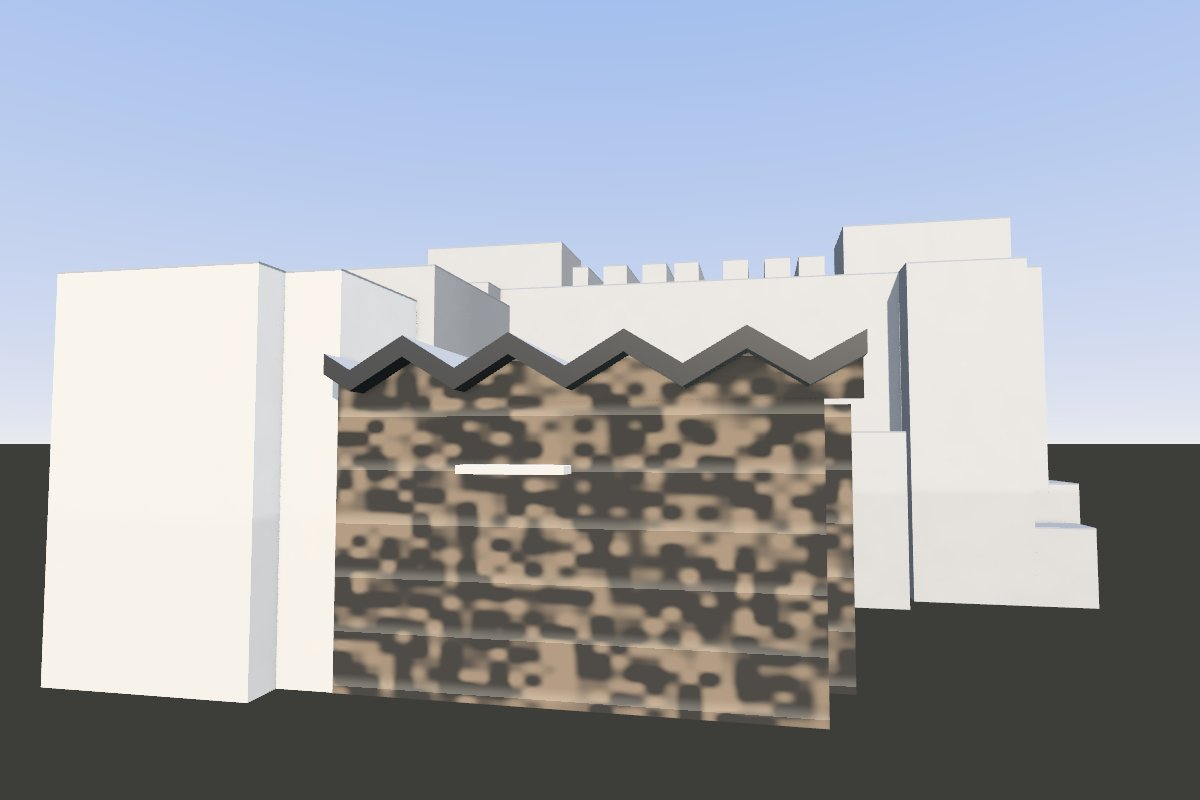
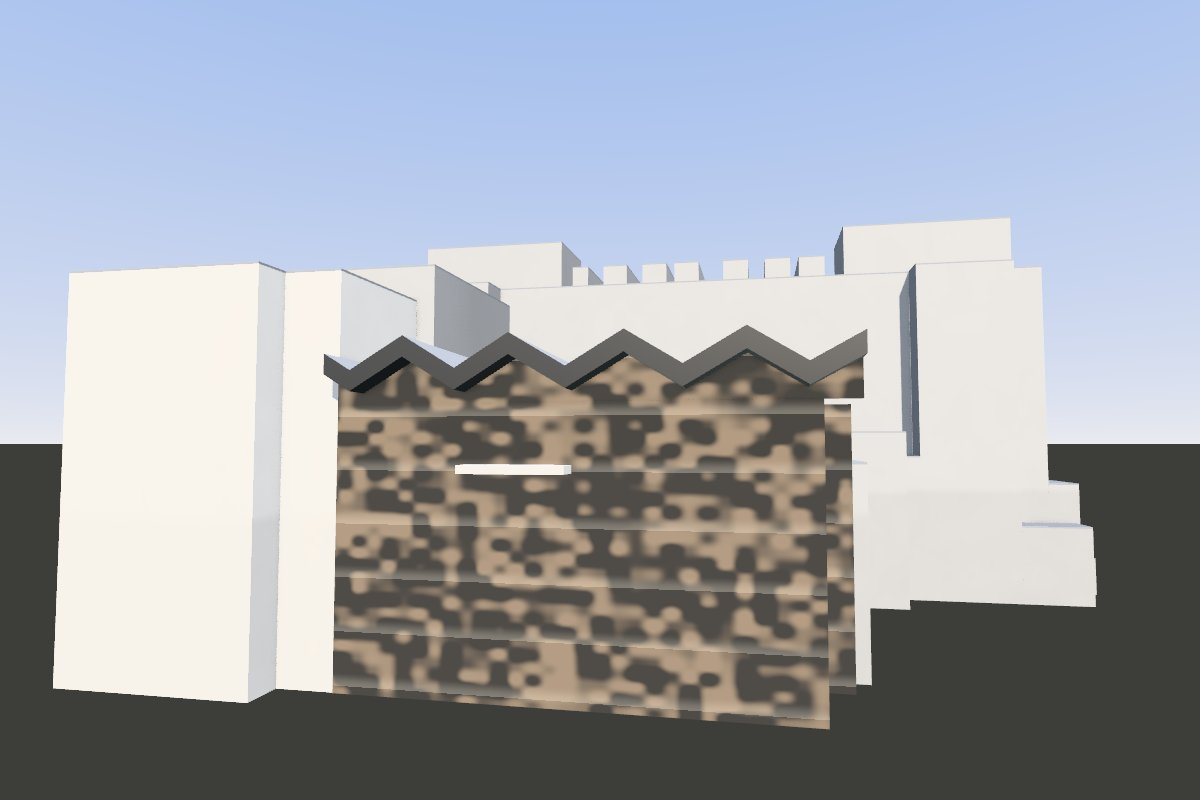
Te Putahi Tangata (201), the review's round 3
- The long block's north-west extension ran 1.1 m past the LiDAR's roof, to u -28, leaving a slot
  1.2 m wide down to the ground between it and the link: it now ends at u -29.1, where its roof
  ends, and the link's strip at 10.9 runs on to it (the LiDAR's 10.6 to 11.8 there).
- The strip at 10.9 along the hall's south-west side was drawn only beside the link: it now runs
  the side's whole length, to w 31, as the LiDAR's.
- The part at 3.6 by the block's west end to w -0.5, where its returns end.
- The low roof at -0.5 and the part at 3.6 stand wholly under the map's ground on the site (by 4.0
  to 5.4 m and 1.2 to 1.9 m): the landmark's README and Known limitations say so.
- Two comments rewrapped to their files' widths; the four pictures retaken.

744 triangles, 5 draw calls. Top view: footprint IoU 0.911, 80% of 16,204 cells within 0.5 m;
block 201 85.3% under the model by the top view's count (95.0% of its outline counted from the
ground under each cell). Luma and the IoU in the box as before. tsc passes; the unit tests 445
pass; e2e/landmark.spec.ts on the GPU 37 pass.

Claude-Session: https://claude.ai/code/session_01WyPcwFTXkmVC7XB6LWPSiH

diff --git a/landmarks/te-putahi-tangata/parts/common.js b/landmarks/te-putahi-tangata/parts/common.js
@@ -49,11 +49,10 @@ export const CANOPY = { plan: [[-0.27, 40.1], [6.76, 40.1], [6.76, 42.2], [-0.27
 
 /** The north-east block: its roof at 23.9 to 24.6 (the parapet's cells 25), its front at w 43.0 from u 20.5 to 35.5
  * (the LiDAR's edge, 1.2 m short of the campus map's ring), at 40 south-west of that and 39 north-east of it, its east
- * side at u 36.75; the raised
- * part on it (27.0 to 27.5) from u 14.6, over the hall's end, to 27, its south-west wall standing from the hall's roof
- * (the LiDAR's returns at u 14.5 to 14.75 from 18.5 to 26.5), so it goes down to FOOT; the faces toward the street and
- * the hall pale metal, as the photograph shows the hall's side, the others plain. `pale`: the edges by index that are
- * clad. */
+ * side at u 36.75; the raised part on it (27.0 to 27.5) from u 14.6, over the hall's end, to 27, its south-west wall
+ * standing from the hall's roof (the LiDAR's returns at u 14.5 to 14.75 from 18.5 to 26.5), so it goes down to FOOT;
+ * the faces toward the street and the hall pale metal, as the photograph shows the hall's side, the others plain.
+ * `pale`: the edges by index that are clad. */
 export const NE = {
   plan: [[16.2, 0.0], [36.75, 0.0], [36.75, 39.0], [35.5, 39.0], [35.5, 43.0], [20.5, 43.0], [20.5, 40.0],
     [16.2, 40.0]],
@@ -62,16 +61,17 @@ export const NE = {
   raised: { plan: [[14.6, 8.0], [27.0, 8.0], [27.0, 28.0], [14.6, 28.0]], top: H(27.35) },
 };
 
-/** The long block behind: its roofs at 31.2 to 32.2 (u -43.0 to 34, w -26 to -4.5, and on to w -0.5 at u -39 to -28
+/** The long block behind: its roofs at 31.2 to 32.2 (u -43.0 to 34, w -26 to -4.5, and on to w -0.5 at u -39 to -29.1
  * and to w 0 at u 20 to 30); strips 2 to 3 m wide at 34.5 to 35 across its middle and raised parts at 37.2 to 38 at
  * each end of it, toward the hall; the stair's core at 33.2 to 33.7 on its south-east side (u -15 to -2.5, to w -33);
  * the podium at 7.6 to 8.0 (its parapets to 9) along its south-east side and its south-west end, and 12 beside the core
  * (to u 7); past the podium's south-west end a low roof at -0.4 to -0.7, about 2.6 m over the ground; north of the
- * block's west end a part at 3 to 4; and the link between the long block and the hall's south-west end, at 13.5 to
- * u -19.5 and 10.3 to 11.4 along the long block and along the hall. */
+ * block's west end a part at 3 to 4 (to w -0.5); and the link between the long block and the hall's south-west end, at
+ * 13.5 to u -19.5, and a strip at 10.3 to 11.8 along the long block (from u -29.1, where the north-west extension's
+ * roof ends) and along the hall's whole south-west side (to w 31). */
 export const SOUTH = {
   main: { top: H(31.95), plan: [[-43.0, -26.0], [34.0, -26.0], [34.0, -4.5], [30.0, -4.5], [30.0, 0.0], [20.0, 0.0],
-    [20.0, -4.5], [-28.0, -4.5], [-28.0, -0.5], [-39.0, -0.5], [-39.0, -4.5], [-43.0, -4.5]] },
+    [20.0, -4.5], [-29.1, -4.5], [-29.1, -0.5], [-39.0, -0.5], [-39.0, -4.5], [-43.0, -4.5]] },
   raised: [
     // their north sides 0.1 m back from the block's, so that the block's roof edge and their walls do not lie in one
     // plane
@@ -89,9 +89,10 @@ export const SOUTH = {
     { top: H(12.0), plan: [[-2.5, -35.0], [7.0, -35.0], [7.0, -26.0], [-2.5, -26.0]] },
     { top: H(7.9), plan: [[7.0, -33.0], [37.0, -33.0], [37.0, -26.0], [7.0, -26.0]] },
     { top: H(-0.5), plan: [[-48.5, -21.0], [-46.0, -21.0], [-46.0, -7.5], [-48.5, -7.5]] },
-    { top: H(3.6), plan: [[-45.7, -4.5], [-39.0, -4.5], [-39.0, 0.3], [-45.7, 0.3]] },
+    { top: H(3.6), plan: [[-45.7, -4.5], [-39.0, -4.5], [-39.0, -0.5], [-45.7, -0.5]] },
     // the link: 10.9 along the long block and along the hall, 13.5 between
-    { top: H(10.9), plan: [[-26.8, -4.5], [-18.2, -4.5], [-18.2, 4.7], [-19.5, 4.7], [-19.5, -2.0], [-26.8, -2.0]] },
+    { top: H(10.9), plan: [[-29.1, -4.5], [-18.2, -4.5], [-18.2, 31.0], [-19.5, 31.0], [-19.5, -2.0], [-26.8, -2.0],
+      [-26.8, -0.5], [-29.1, -0.5]] },
     { top: H(13.5), plan: [[-26.8, -2.0], [-19.5, -2.0], [-19.5, 4.7], [-26.8, 4.7]] },
   ],
 };

diff --git a/src/scene/landmarks.ts b/src/scene/landmarks.ts
@@ -137,8 +137,8 @@ export interface LandmarkHost {
  * (250) and 0.57 m from the Humanities Building (206). The nearest two landmarks further apart than this,
  * buildings 302 and 303S of the Science Centre, stand 5.6 m apart (the next, the Humanities Building and
  * Okareta (206, 215), 7.4 m, and the Humanities Building and the Sir Owen G Glenn Building (206, 260),
- * 7.9 m): each of those can stand on the
- * map's own ground without a step or an overlap between them that a camera could see.
+ * 7.9 m): each of those can stand on the map's own ground without a step or an overlap between them that a
+ * camera could see.
  */
 export const SHARED_GROUND = 2;
 
@@ -147,10 +147,10 @@ export const SHARED_GROUND = 2;
  * there) may span for the group to share one ground (standHeights). Sharing moves each member by up to half
  * the span. The six groups on the site span 0.23 m (421E and 421W), 0.62 m (110 and 110N), 0.90 m (801 and
  * 802), 1.78 m (303 and 303S), 4.26 m (201 between 206 and 250) and 5.07 m (the Clock Tower and its East
- * Wing): at the Clock Tower's door the
- * map's ground is 4.85 m below the LiDAR's and at the East Wing's about right, so a shared ground would
- * stand both 2.5 m off their real ground, where the fault is the map's ground, not the models (the
- * maintainer chose this, 2026-11-03). Any limit from 1.79 to 4.25 m gives the same groups today.
+ * Wing): at the Clock Tower's door the map's ground is 4.85 m below the LiDAR's and at the East Wing's
+ * about right, so a shared ground would stand both 2.5 m off their real ground, where the fault is the
+ * map's ground, not the models (the maintainer chose this, 2026-11-03). Any limit from 1.79 to 4.25 m gives
+ * the same groups today.
  */
 export const SHARED_SPREAD = 2;
 

diff --git a/landmarks/te-putahi-tangata/README.md b/landmarks/te-putahi-tangata/README.md
@@ -39,10 +39,10 @@ the one the model was drawn in (0.000 m, 0.000 degrees).
   6.87 m (250), all below: a span of 4.26 m, more than `SHARED_SPREAD`, so each stands on the map's ground at its own
   door, as the Clock Tower and its East Wing do, and 206 and 250 stand where they stood.
 - The roofs west of the hall (17 to 26 m) stand outside the outline: other buildings, not drawn.
-- 84.6% of block 201 is under the model by the top view's count, which counts only what stands more than
-  2.5 m over the door's ground: the site falls 11 m, and the podium and the low parts on its south side stand under
-  that. Counted from the ground under each cell, 94.4% of the block's outline is under the model, and 98.1% of the
-  cells in it where the LiDAR has a roof. No other block is under it by half, so `building.also` is empty.
+- 85.3% of block 201 is under the model by the top view's count, which counts only what stands more than 2.5 m over the
+  door's ground: the site falls 11 m, and the podium and the low parts on its south side stand under that. Counted from
+  the ground under each cell, 95.0% of the block's outline is under the model, and 98.9% of the cells in it where the
+  LiDAR has a roof. No other block is under it by half, so `building.also` is empty.
 
 ## The reference
 
@@ -85,27 +85,27 @@ underside along the glass fall on the photograph's.
   wall standing from the hall's roof, where the LiDAR has a wall from 18.5 to 26.5, down to `FOOT`. Its faces
   toward the street and the hall pale metal (`claddingPale`), as the photograph shows the hall's side; the others
   plain.
-- **The long block** behind: its roofs at 31.95 (the LiDAR's 31.2 to 32.2), u -43.0 to 34 and w -26 to -4.5, and on to
-  w -0.5 at u -39 to -28 and to w 0 at u 20 to 30; raised parts at 37.7 at each end of its north side (37.2 to 38);
+- **The long block** behind: its roofs at 31.95 (the LiDAR's 31.2 to 32.2), u -43.0 to 34 and w -26 to -4.5, and on to w
+  -0.5 at u -39 to -29.1 and to w 0 at u 20 to 30; raised parts at 37.7 at each end of its north side (37.2 to 38);
   across its middle seven strips 2 to 3 m wide at 34.8, 1 to 2 m apart (u -20 to 11, w -18 to -6.5), drawn solid: the
   LiDAR's returns there lie both at the strips' top and on the roof under them (screens or roof lights, which no
   photograph shows); the stair's core on its south-east side at 33.4 (u -15 to -2.5, to w -33); the podium at 7.9 (its
   roof 7.6 to 8.0, its parapets to 9) along its south-east side and round its south-west end (u -46 to -43), and 12
   beside the core (to u 7); past the podium's south-west end a low roof at -0.5, about 2.6 m over the ground; north of
-  the block's west end a part at 3.6; and the link between it and the hall's south-west end at 13.5 (to u -19.5), with a
-  strip at 10.9 along the long block and along the hall.
-  Every face plain mid grey
-  (`grey`), the roofs `roofGrey`.
+  the block's west end a part at 3.6 (to w -0.5); and the link between it and the hall's south-west end at 13.5 (to u
+  -19.5), with a strip at 10.9 (the LiDAR's 10.6 to 11.8) along the long block, from u -29.1, where the north-west
+  extension's roof ends, and along the hall's whole south-west side, to w 31. Every face plain mid grey (`grey`), the
+  roofs `roofGrey`.
 - The light: the photograph's light is soft and bright, the front lit under the trees; the viewer's sun stands behind
   the camera, low in the north-west (300 degrees round, 35 up), at an exposure of 1.15: the building's luma median 213
   against the photograph's 203 as the metrics take it (the model at any height, and under the ground line the
   photograph shows the street) and 198 against 209 above the ground line.
 
-The top view: footprint IoU 0.902 (the LiDAR's 4,176 m² against the model's 4,463, both 4,096; of the 367 m² only the
+The top view: footprint IoU 0.911 (the LiDAR's 4,176 m² against the model's 4,507, both 4,140; of the 367 m² only the
 model covers, most is the hall's roof over its glazed strips, which the LiDAR does not see, and over a
 planted part at its north-east end, whose returns at the roof's height the LiDAR classes as vegetation), 80% of the
-16,029 cells both cover within 0.5 m (p10/p50/p90 -0.39/0.06/0.64), the highest point 30.54 m over the door's ground
-against the LiDAR's 30.93 (p99.9). 728 triangles, 5 draw calls.
+16,204 cells both cover within 0.5 m (p10/p50/p90 -0.39/0.06/0.63), the highest point 30.54 m over the door's ground
+against the LiDAR's 30.93 (p99.9). 744 triangles, 5 draw calls.
 
 ## On the map (step 7)
 
@@ -124,6 +124,10 @@ against a limit of 0.9 and 84% of its cells within 0.5 m against 90%) has gone; 
 
 - **The foot.** Its y = 0 is the map's ground at its door. Its walls go down to FOOT, 11.67 m under the door's ground,
   below the map's ground under every plan: the foot check of `tests/landmarks.test.ts` passes, as does its faces check.
+- **Under the drawn ground.** The map's ground falls about 7 m across the site where the LiDAR's falls about 11 m, so
+  the low roof at -0.5 past the podium's south-west end (its top 7.67 m under the door's ground) and the part at 3.6
+  north of the block's west end (3.57 m under it) stand wholly under the map's ground there, by 4.0 to 5.4 m and 1.2 to
+  1.9 m: the site does not show them; the viewer does.
 - **While a building is open** its neighbours sink to footprints, and the model gives way to block 201, which sinks on
   its footing, at most 4 m above the lowest ground under it (`updateLandmarks` in `src/scene/CampusScene.ts`), and whose
   footprint shows above the drawn ground on 70% of its cells, by up to 4.6 m.

diff --git a/README.md b/README.md
@@ -758,7 +758,7 @@ plates at the front and of the canopy are estimated with the photograph as a ref
 to its north-west, about 14 m from the glass, through three plane trees whose leaves hide all the sky over the roof: no
 silhouette can be counted against the sky, so the model was checked by laying it over the photograph through the
 camera fitted to it (to 1.8 pixels), and the brightness of the building is within 11 of the photograph's. From above
-its outline covers the LiDAR's with an IoU of 0.90, and on 80% of the cells both cover it is within 0.5 m of the
+its outline covers the LiDAR's with an IoU of 0.91, and on 80% of the cells both cover it is within 0.5 m of the
 LiDAR's height. What the photograph does not show is drawn plainly.
 
 | | |
@@ -1375,12 +1375,12 @@ If you represent the University and would like something changed or removed, ple
   roofs are not drawn. Its entrance is not known from a record: its door is set on the plaza before the canopy, where
   the map's ground lies 5.5 m under the LiDAR's. The map's ground falls about 7 m across its site where the LiDAR's
   falls about 11 m, so from the south-east the long block stands about 4 m less over the drawn ground than over the real
-  one. It stands within 2 m of the Humanities Building and the Music School (0.57 and 0.44 m), but the map's ground at
-  their three doors is off the LiDAR's by amounts 4.26 m apart, so each stands on the map's ground at its own door, as
-  the Clock Tower and its East Wing do. Block 201 is 84.6% under the model by the top view's count, which leaves out the
-  podium and the low parts standing less than 2.5 m over the door's ground (94.4% counted from the ground under it).
-  While a building beside it is open, it gives way to block 201, which sinks to a footprint on its footing, at most 4 m
-  above the lowest ground under it: that footprint stands above the drawn ground on 70% of its cells, by up to 4.6 m.
+  one, and a low roof and a low part by its south-west end stand wholly under the drawn ground, where the site does not
+  show them. It stands within 2 m of the Humanities Building and the Music School (0.57 and 0.44 m), but the map's
+  ground at their three doors is off the LiDAR's by amounts 4.26 m apart, so each stands on the map's ground at its own
+  door, as the Clock Tower and its East Wing do. While a building beside it is open, it gives way to block 201, which
+  sinks to a footprint on its footing, at most 4 m above the lowest ground under it: that footprint stands above the
+  drawn ground on 70% of its cells, by up to 4.6 m.
 - **The Fisher Building is seen from Waterloo Quadrant only.** Two Street View panoramas see its west
   and south faces; its faces turned north, east and south-east, which no photograph shows, are tan
   brick with their floor bands, and its roofs are flat. Block 804's outline under the trees by its

diff --git a/landmarks/te-putahi-tangata/docs/CONTRACT.md b/landmarks/te-putahi-tangata/docs/CONTRACT.md
@@ -20,7 +20,8 @@ The rules every part of this landmark keeps. The kit, the pipeline and the viewe
   from the hall's roof); the long block behind (u -43.0 to 34, w -26 to -4.5) at 31.2 to 32.2, with strips 2 to 3 m
   wide at 34.5 to 35 across its middle, raised parts at 37.2 to 38 at each end of it, the stair's core at 33.2 to 33.7
   (u -15 to -2.5), the podium at 7.6 to 8.0 (its parapets to 9) along its south-east side and round its south-west end,
-  and 12, a low roof at -0.5 and a part at 3 to 4 by its south-west end, and a link at 10.9 and 13.5 beside the hall.
+  and 12, a low roof at -0.5 and a part at 3 to 4 by its south-west end, and a link at 13.5 beside the hall, with a
+  strip at 10.6 to 11.8 along the long block and the hall's south-west side.
   Roofs west of the hall (17 to 26 m) stand outside the ring: other buildings, not drawn.
 - Walls go down to `FOOT`, 4.5 m under 28.33 m: the ground falls from 35.5 to 36.1 on the street side to 24.2 to 24.9
   on the south-east side.
@@ -63,6 +64,12 @@ The rules every part of this landmark keeps. The kit, the pipeline and the viewe
   footprint IoU 0.902, 80% of 16,029 cells within 0.5 m; block 201 84.6% under the model by the top view's count,
   which counts only what stands more than 2.5 m over the door's ground (94.4% of its outline counted from the ground
   under each cell, 98.1% of the cells in it where the LiDAR has a roof). Luma and the IoU in the box as before.
+- The review's round 3 (2026-11-10): the long block's north-west extension to u -29.1, where its roof ends, and the
+  strip at 10.9 from there, closing the slot between the extension and the link; the strip at 10.9 along the hall's
+  whole south-west side, to w 31; the part at 3.6 to w -0.5; the two low parts named as under the map's ground on the
+  site. 744 triangles, 5 draw calls. Top view: footprint IoU 0.911, 80% of 16,204 cells within 0.5 m; block 201 85.3%
+  under the model by the top view's count (95.0% of its outline counted from the ground under each cell, 98.9% of the
+  cells in it where the LiDAR has a roof). Luma and the IoU in the box as before.
 
 ## Rules
 - Measure, don't guess: a size not from the LiDAR is named in the config's `estimated`, here and on the card.
